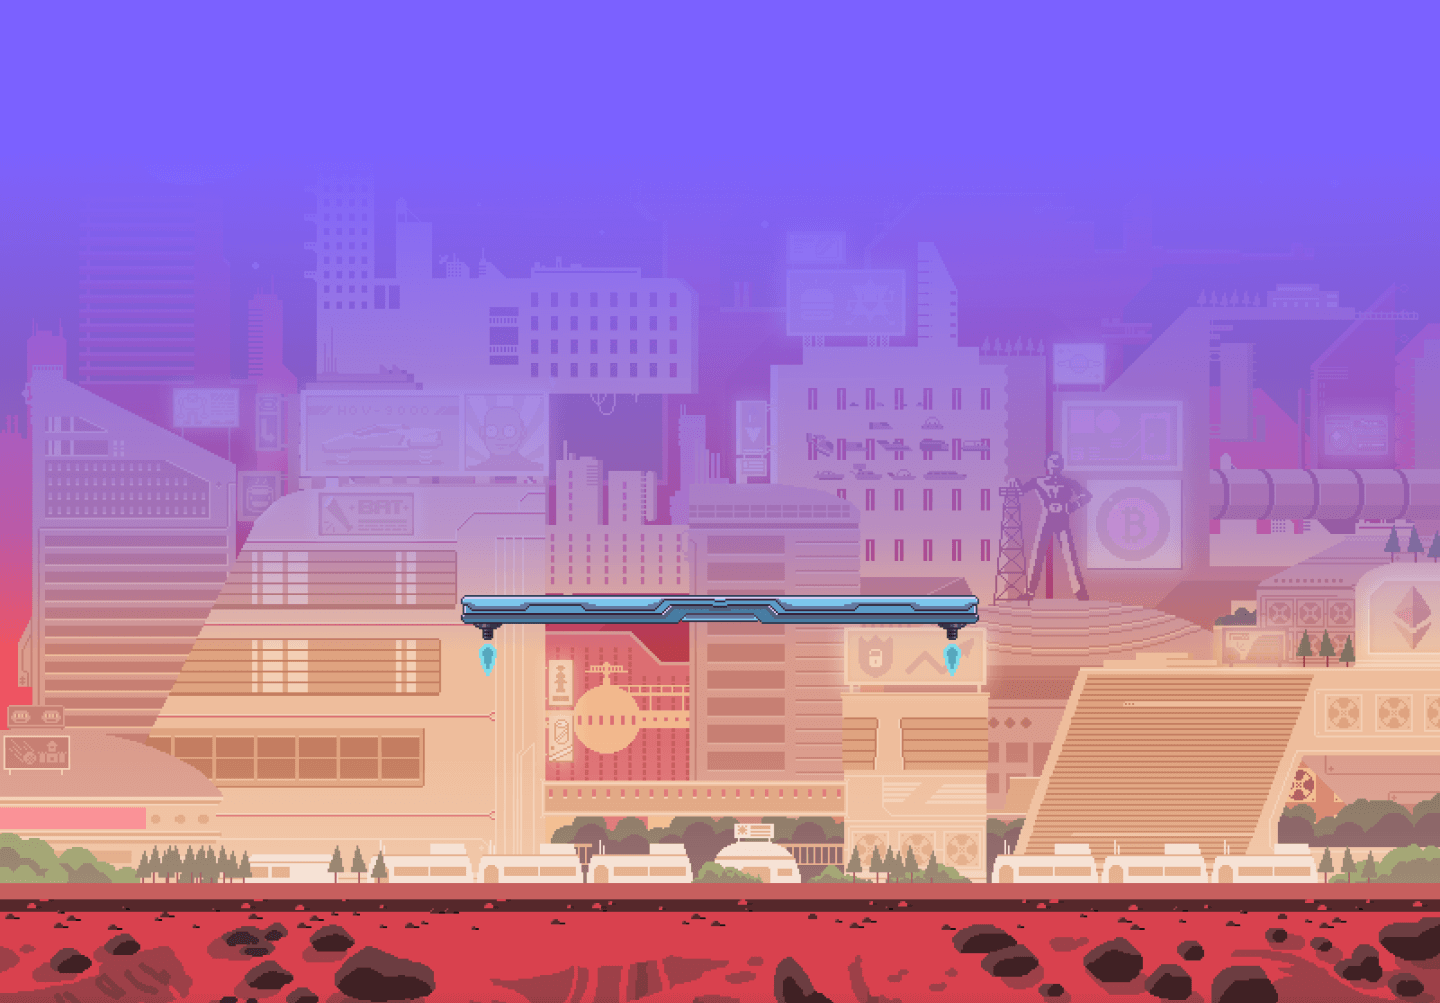
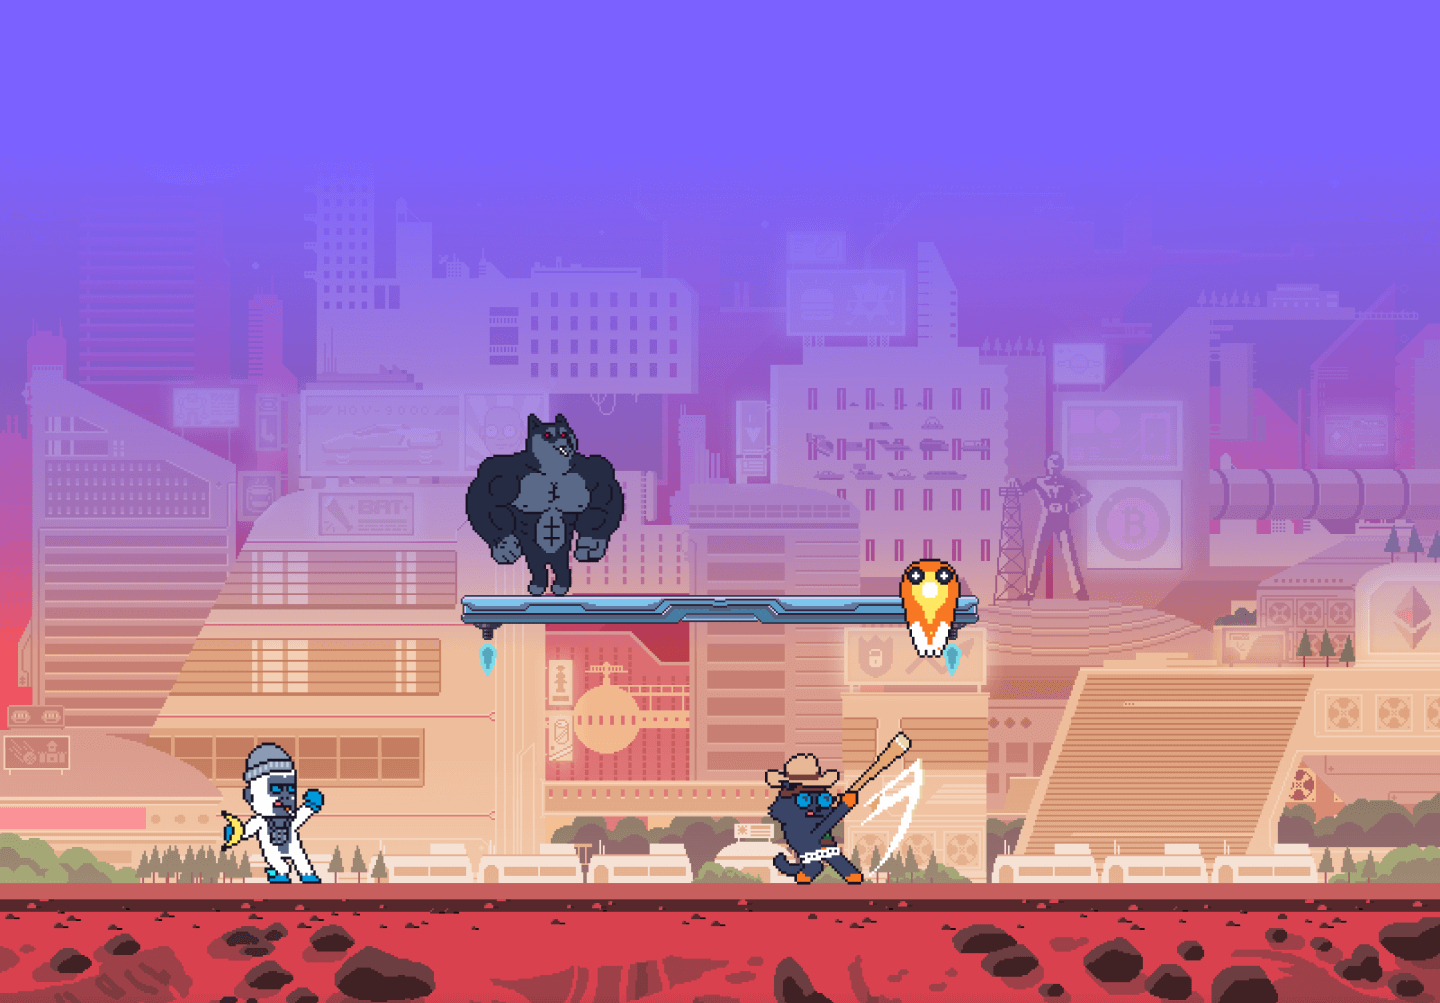
Add new DAO image with degen sprites

diff --git a/pages/index.tsx b/pages/index.tsx
@@ -95,7 +95,7 @@ const Home: NextPage = () => {
           priority
         />
         <div className="container d-flex flex-column text-center position-relative my-5" style={{ zIndex: 2 }}>
-          <h2 className="font-48 my-5">
+          <h2 className="font-48 my-5 px-5">
             Our 9.9k DEGEN NFTs act as players in our games such as Nifty Smashers. Our ecosystem is centered around
             nostalgia - where builders, players, and owners spend time connecting, gaming, and earning in Web3.
           </h2>
@@ -272,7 +272,7 @@ const Home: NextPage = () => {
             </div>
 
             <h1>Join Nifty League</h1>
-            <p className="my-sm-5 my-2 text-m-center">
+            <p className="my-sm-5 my-2 text-m-center px-5">
               The minting process for Nifty League allowed minters the ability to design their own DEGEN using our
               Mint-O-Matic, which our community absolutely loved! You can purchase a DEGEN NFT on OpenSea.
             </p>

diff --git a/pages/about.tsx b/pages/about.tsx
@@ -492,7 +492,6 @@ const About: NextPage = () => {
           {desktop ? (
             <Image
               alt="Mars level background desktop"
-              className="pixelated"
               height={1003}
               layout="responsive"
               objectFit="cover"
@@ -515,7 +514,7 @@ const About: NextPage = () => {
         </div>
         <div className="position-absolute my-sm-5">
           <h1 className="font-64 my-5">Nifty DAO</h1>
-          <p>
+          <p className="px-5">
             We will gradually be transferring ownership of the Nifty League to our DAO in order to decentralize the
             platform and encourage devs to help us build! Our vision is to power rapid growth and development through
             community contributions enabling us to build a gaming platform like no other. Simply put, DAOs are the
